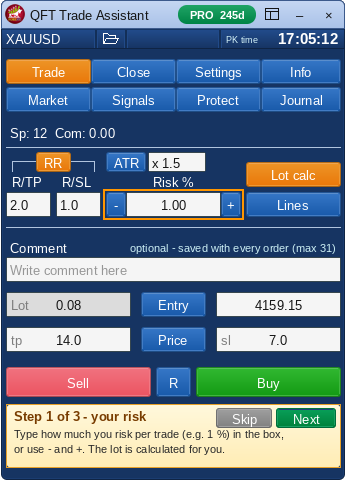
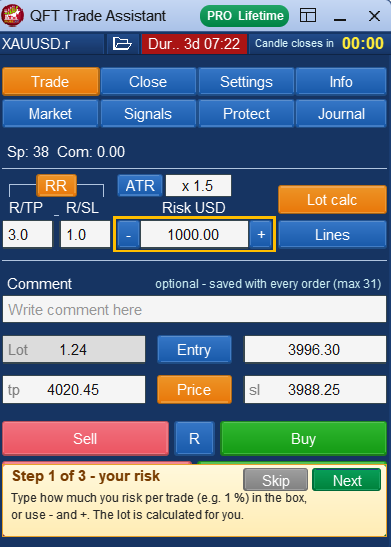
Trade Assistant: real Compact view (Gold H4 with ICT OTE signal) and Start here screenshots; What's new grid 2 columns
Claude-Session: https://claude.ai/code/session_01SgYmwN6LEPmSsuKLi6JRvs

Changed region(s): [[0.0, 0.0, 1.0, 1.0], [0.8092, 0.125, 0.9538, 0.2188]]

diff --git a/trade-assistant.html b/trade-assistant.html
@@ -266,9 +266,10 @@ footer a:hover{color:var(--ink)}
 .ta-visual .shot{margin:0}
 .ta-visual canvas{display:block;width:100%;height:360px}
 @media (max-width:520px){.ta-visual canvas{height:260px}}
-.nw-grid{display:grid;grid-template-columns:repeat(3,minmax(0,1fr));gap:18px;align-items:start}
+.nw-grid{display:grid;grid-template-columns:repeat(2,minmax(0,1fr));gap:18px;align-items:start}
 .nw-grid figure{margin:0;border:1px solid var(--line);border-radius:var(--r);background:var(--surface);padding:16px;display:grid;gap:12px}
-.nw-grid img{display:block;width:100%;max-width:346px;height:auto;margin:0 auto;border-radius:8px}
+.nw-grid figure.wide{grid-column:1/-1}.nw-grid figure.wide img{max-width:100%}
+.nw-grid img{display:block;width:100%;max-width:394px;height:auto;margin:0 auto;border-radius:8px}
 .nw-grid figcaption{font-size:15px;line-height:1.55;color:var(--muted)}.nw-grid figcaption b{color:var(--ink)}
 .nw-note{margin-top:18px;border:1px solid var(--line);border-left:4px solid var(--gold);border-radius:var(--r);background:var(--surface);padding:18px 22px}
 .nw-note h3{margin:0 0 8px;font-size:18px}.nw-note p{margin:0;color:var(--muted);line-height:1.6}.nw-note b{color:var(--ink)}.nw-note a{color:var(--gold)}
@@ -444,8 +445,8 @@ footer a:hover{color:var(--ink)}
 <section id="new" style="padding-top:0"><div class="wrap">
   <div class="head"><div class="eyebrow">New in version 3.13 · MT5 &amp; MT4</div><h2>Compact view, Start here help and 2 ICT strategies</h2><p>Free update for every licence: installed panels update themselves from Info &gt; About, new users download 3.13 below.</p></div>
   <div class="nw-grid">
-    <figure><img src="ta-new-compact-view.png" alt="QFT Trade Assistant compact view for MT5: risk box in yellow, lot, Lines, Sell, R and Buy buttons" width="346" height="160" loading="lazy"><figcaption><b>Compact view for scalping.</b> One button in the title bar shrinks the panel to the risk, the lot, Lines and Sell / R / Buy, with SL, TP and the money at risk underneath. Click again for all tabs.</figcaption></figure>
-    <figure><img src="ta-new-start-here.png" alt="QFT Trade Assistant Start here help: step 1 of 3, set your risk per trade, with the risk box highlighted" width="346" height="480" loading="lazy"><figcaption><b>Start here, in 3 steps.</b> A new user is guided through the risk, the SL and TP lines and the order, with the right part of the panel highlighted. <b>Risk colours:</b> the risk box turns yellow above 2% and red above 5% of the balance.</figcaption></figure>
+    <figure class="wide"><img src="ta-new-compact-view.png" alt="QFT Trade Assistant 3.13 compact view on a Gold XAUUSD H4 chart: risk in USD, lot, Lines, Sell, R and Buy, with an ICT OTE sell signal and its SL and TP lines" width="1085" height="506" loading="lazy"><figcaption><b>Compact view for scalping.</b> One button in the title bar shrinks the panel to the risk, the lot, Lines and Sell / R / Buy, with SL, TP and the money at risk underneath. Click again for all tabs. Here it sits on a Gold (XAUUSD) H4 chart next to an ICT OTE 79% sell signal with its SL and TP lines.</figcaption></figure>
+    <figure><img src="ta-new-start-here.png" alt="QFT Trade Assistant 3.13 Start here help on the Trade tab: step 1 of 3, set your risk per trade, with the risk box highlighted" width="391" height="547" loading="lazy"><figcaption><b>Start here, in 3 steps.</b> A new user is guided through the risk, the SL and TP lines and the order, with the right part of the panel highlighted. <b>Risk colours:</b> the risk box turns yellow above 2% and red above 5% of the balance.</figcaption></figure>
     <figure><img src="ta-new-ict-strategies.png" alt="QFT Trade Assistant 3.13 Signals tab: 11 strategies including ICT OTE 79% and ICT 2022 Model, with the Best and Use setup buttons" width="394" height="608" loading="lazy"><figcaption><b>ICT OTE 79% and the ICT 2022 Model.</b> Two ICT strategies join the Signals tab (11 in all). <b>Best</b> keeps only the strategies that beat break-even on your chart, and <b>Use setup</b> copies the latest signal's Entry, SL and TP to the Trade tab for you to check and place.</figcaption></figure>
   </div>
   <div class="nw-note"><h3>How the two ICT strategies were chosen</h3><p>We coded 10 popular ICT models (including Silver Bullet, Judas swing, turtle soup, order block and FVG retests) and tested them on Gold, EURUSD, GBPUSD and USDJPY from 2012 to 2022 on M15 and H1, with the spread included. Only two stayed positive on every symbol: <b>ICT OTE 79%</b> (a strong candle breaks the 20-bar high or low, entry when price returns to 79% of the move) and the <b>ICT 2022 Model</b> (liquidity sweep of the 40-bar high or low, market structure shift, entry at 79% of the new move, stop beyond the sweep). On H1 both averaged about +0.2R per trade at 1:2 with a 42–43% win rate, so losing runs of 5–7 trades are normal. Past results do not guarantee future results; the panel shows each strategy's score on your own chart.</p><p style="margin-top:10px">Also new: <b>Navy Blue</b> is the default theme and the panel is smaller without the bottom box. Read more about <a href="guide-smart-money-concepts.html">Smart Money Concepts</a> and <a href="guide-fair-value-gap.html">fair value gaps</a>.</p></div>
